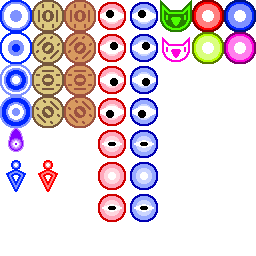
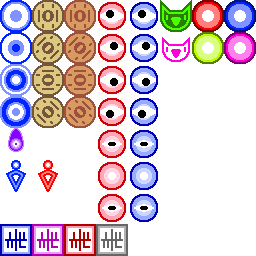
Added strike and seal projectiles

Changed region(s): [[0.0, 0.875, 0.5, 1.0]]

diff --git a/code/game/Sprite.js b/code/game/Sprite.js
@@ -32,6 +32,44 @@ var SPRITE = {
             hitbox: 0.4,
             rotate: true
         },
+        strikeBlue: {
+            x: 0,
+            y: 6,
+            hitbox: 0.75,
+            rotate: true
+        },
+        strikePurple: {
+            x: 1,
+            y: 6,
+            hitbox: 0.75,
+            rotate: true
+        },
+        strikeRed: {
+            x: 2,
+            y: 6,
+            hitbox: 0.75,
+            rotate: true
+        },
+        sealBlue: {
+            x: 0,
+            y: 7,
+            rotate: true
+        },
+        sealPurple: {
+            x: 1,
+            y: 7,
+            rotate: true
+        },
+        sealRed: {
+            x: 2,
+            y: 7,
+            rotate: true
+        },
+        sealGray: {
+            x: 3,
+            y: 7,
+            rotate: true
+        },
         coin: {
             x: 1,
             y: 0,
